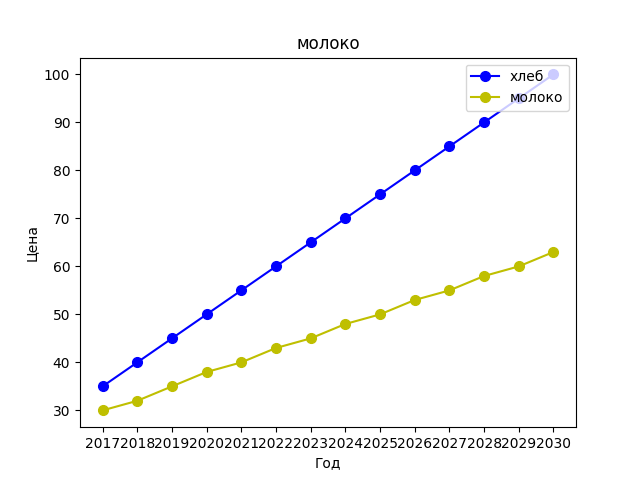
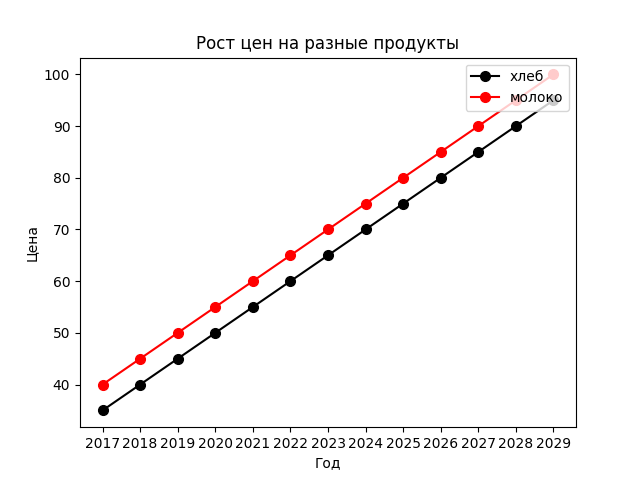
Update project

diff --git a/main.py b/main.py
@@ -3,7 +3,6 @@ import os
 import numpy as np
 from langchain_core.messages import HumanMessage, SystemMessage
 from langchain_gigachat.chat_models import GigaChat
-import matplotlib.pyplot as plt
 import random
 
 from config import *
@@ -29,18 +28,10 @@ def create_data(string_data):
 
     return year_price
 
-# def create_graph(x, y, name, id_user):
-#     """Создание графика"""
-
-#     plt.xlabel('Год')
-#     plt.ylabel('Цена')
-#     plt.title(name)
-#     plt.plot(x, y, color=random.choice(['green','red','yellow','blue']), marker='o', markersize=7)
-#     plt.savefig(f'{name}_{id_user}')
 
 # Создание экземпляра GigaChat
 giga = GigaChat(
[1 lines of base64/hex data omitted]
+    credentials=AUTH_KEY,
     verify_ssl_certs=False,
 )
 
@@ -62,58 +53,83 @@ messages = [
 2027-n;
 2028-n;
 2029-n
-первые 4 цифры - это год, n - это сколько стоил продукт в этом году в рублях за 1 кг.  Никакого текста, никаких пояснений, комментариев и т.д. ты не должен отправлять пользователю только 13 строчек, где год и цена на продукт. никаких единиц измерения быть тоже не должно. регион цены на продукт по умолчанию Пермский Край. Если пользователь указал другой регион, то бери его. Если продукт съедобный, то смотри цену в пятерочке, например. Также цены пиши правдоподобные и средние, учитывай внешние факторы, например санкции, курс доллара и т.д. Если пользователь пишет текст в формате: продукт + продукт и т.д., например: хлеб + молоко, то ты должен посчитать сколько стоил хлеб в разные годы, отдельно молоко в разные годы и т.д. и сложить сумму для каждого года стоимость данных продуктов. Если тебе пишут блюдо, например, борщ и т.д. Ты пишешь, сколько стоит дома приготовить данный продукт. Цены на 2026-2030 годы ты должен спрогозировать, учитывая разные факторы и т.д.
+первые 4 цифры - это год, n - это сколько стоил продукт в этом году в рублях за 1 кг.  Никакого текста, никаких пояснений, комментариев и т.д. ты не должен отправлять пользователю только 13 строчек, где год и цена на продукт. никаких единиц измерения быть тоже не должно. регион цены на продукт по умолчанию Пермский Край. Если пользователь указал другой регион, то бери его. Если продукт съедобный, то смотри цену в пятерочке, например. Также цены пиши правдоподобные и средние, учитывай внешние факторы, например санкции, курс доллара и т.д. Если пользователь пишет текст в формате: продукт + продукт и т.д., например: хлеб + молоко, то ты должен посчитать сколько стоил хлеб в разные годы, отдельно молоко в разные годы и т.д. и сложить сумму для каждого года стоимость данных продуктов. Если тебе пишут блюдо, например, борщ и т.д. Ты пишешь, сколько стоит дома приготовить данный продукт. Цены с 2017 по 2025 годы должны быть крайне реалистичные. Цены для 2025 ты должен брать с сайта пятерочки и т.д., чтобы они были точно актуальны. Учитывая разные факторы и т.д. Учитывая эти же разные факторы ты должен спрогнозировать цену на продукт с 2026 по 2029 годы. Если пользователь задает вопрос, например, что такое инфляция и т.д. или другой иной вопрос связанный с экономикой, ты должен очень кратко, емко и понятно ответить на него совсем небольшим сообщением. В ответе не используй никакие решетки, зведочки и другие символы для форматирования текста. Если вопрос никак не связан с экономикой, то отправляй один символ 0
 """
     )
 ]
 
+
 @bot.message_handler(commands=['start'])
 def start_command(message: telebot.types.Message):
     bot.send_message(message.chat.id, 'Добро пожаловать в бот, который создает графики цен на разные продукты. Инструкция использования бота доступна по команде /help')
-    db_manager.add_user(message.from_user.id)
+    # db_manager.add_user(message.from_user.id)
 
 
 @bot.message_handler(commands=['help'])
 def help_command(message: telebot.types.Message):
-    bot.send_message("""
+    bot.send_message(message.chat.id, """
 Что я умею:
 Если ты мне просто напишешь продукт или продукты, например: хлеб; хлеб + молоко (1 литр), то я выведу график цен на этот продукт.
 /answer (экономический вопрос). Если ты введешь эту команду с экономическим вопросом, то получишь емкий и понятный ответ.
 """)
 
-users_color = {
 
-}
+@bot.message_handler(commands=['clear'])
+def clear_command(message: telebot.types.Message):
+    import matplotlib.pyplot as plt
+    plt.clf()
+
+@bot.message_handler(commands=['answer'])
+def answer_command(message: telebot.types.Message):
+    user_input = message.text[8:]
+    res = giga.invoke(user_input)
+    messages.append(res)
+    bot.send_message(message.chat.id, res.content, parse_mode='markdown')
+
+
+# Шаблон: params_bot[tg_id] = [[color, x, y, label], [color, x, y, label]]
+params_bot ={}
+
 
 @bot.message_handler(content_types=['text'])
 def all_messages(message: telebot.types.Message):
-    user_input = message.text
-    messages.append(HumanMessage(content=user_input))
-    res = giga.invoke(messages)
-    messages.append(res)
-    
-    data_user = create_data(res.content)
+    import matplotlib.pyplot as plt
 
-    plt.switch_backend('Agg') 
-    plt.xlabel('Год')
-    plt.ylabel('Цена')
+    try:
+        if message.from_user.id not in params_bot.keys():
+            params_bot[message.from_user.id] = []
 
-    plt.title(message.text)
-    colors = ['b', 'g', 'r', 'c', 'm', 'y', 'k']
-    # users_color[message.from_user.id] = []
-    plt.plot(data_user.keys(), data_user.values(), color=random.choice(colors), marker='o', markersize=7, label=user_input)
-    plt.xticks(np.arange(min(data_user.keys()), max(data_user.keys())+1))
-    plt.legend(loc='upper right')
-    plt.savefig(f'{message.text}_{message.from_user.id}')
-    
-    with open(f'{message.text}_{message.from_user.id}.png', 'rb') as photo:
-        bot.send_photo(message.chat.id, photo)
+        user_input = message.text
+        messages.append(HumanMessage(content=user_input))
+        res = giga.invoke(messages)
+        messages.append(res)
+        
+        data_user = create_data(res.content)
+
+        plt.switch_backend('Agg') 
+        plt.xlabel('Год')
+        plt.ylabel('Цена')
+
+        plt.title("Рост цен на разные продукты")
+        colors = ['b', 'g', 'r', 'c', 'm', 'y', 'k']
+
+        color = random.choice(colors)
+        params_bot[message.from_user.id].append([data_user.keys, data_user.values(), random.choice(colors), user_input])
+        plt.plot(data_user.keys(), data_user.values(), color=random.choice(colors), marker='o', markersize=7, label=user_input)
+        # plt.xticks(np.arange(min(data_user.keys()), max(data_user.keys())+1))
+        plt.legend(loc='upper right')
+        plt.savefig(f'{message.text}_{message.from_user.id}')
+        
+        with open(f'{message.text}_{message.from_user.id}.png', 'rb') as photo:
+            bot.send_photo(message.chat.id, photo)
+            os.remove(f'{message.text}_{message.from_user.id}.png')
+
+        plt.close()
+    except:
+        bot.send_message(message.chat.id, "Введите корректный запрос!")
 
             
 if __name__ == "__main__":
-    db_manager = DB_manager(DB_NAME)
-    db_manager.create_table()
-
     bot.polling(non_stop=True)
 
 

diff --git a/1.py b/1.py
@@ -1,0 +1,5 @@
+a = {}
+
+a['odin'] = []
+
+a['odin'].append(1)
